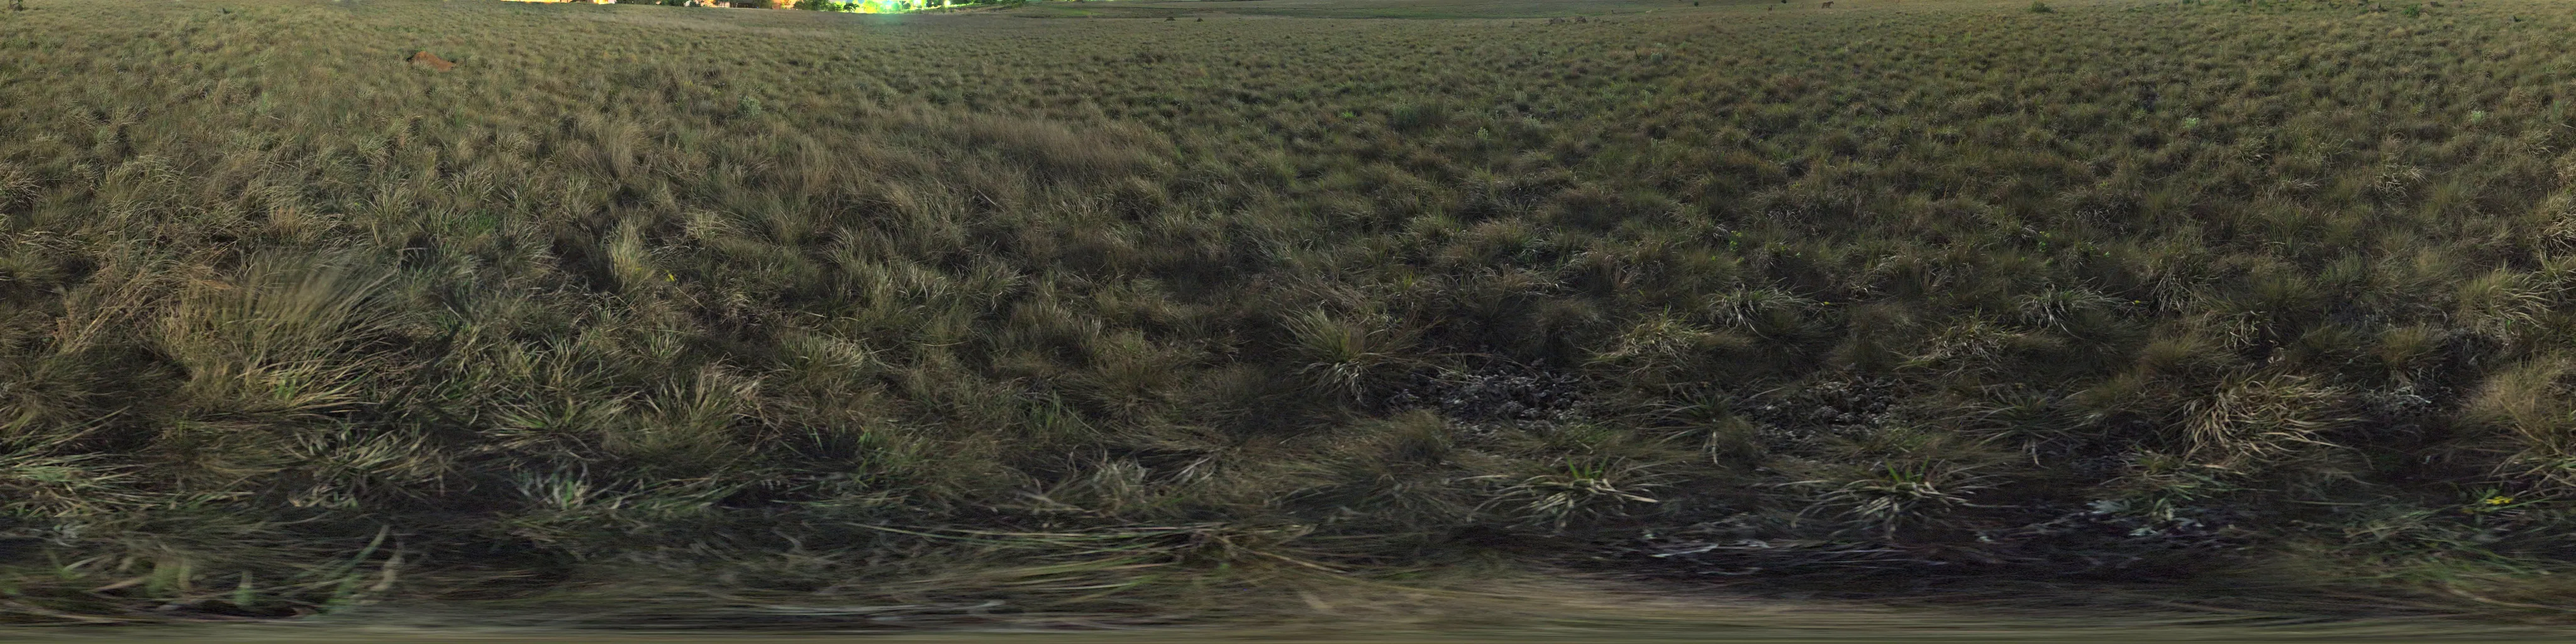
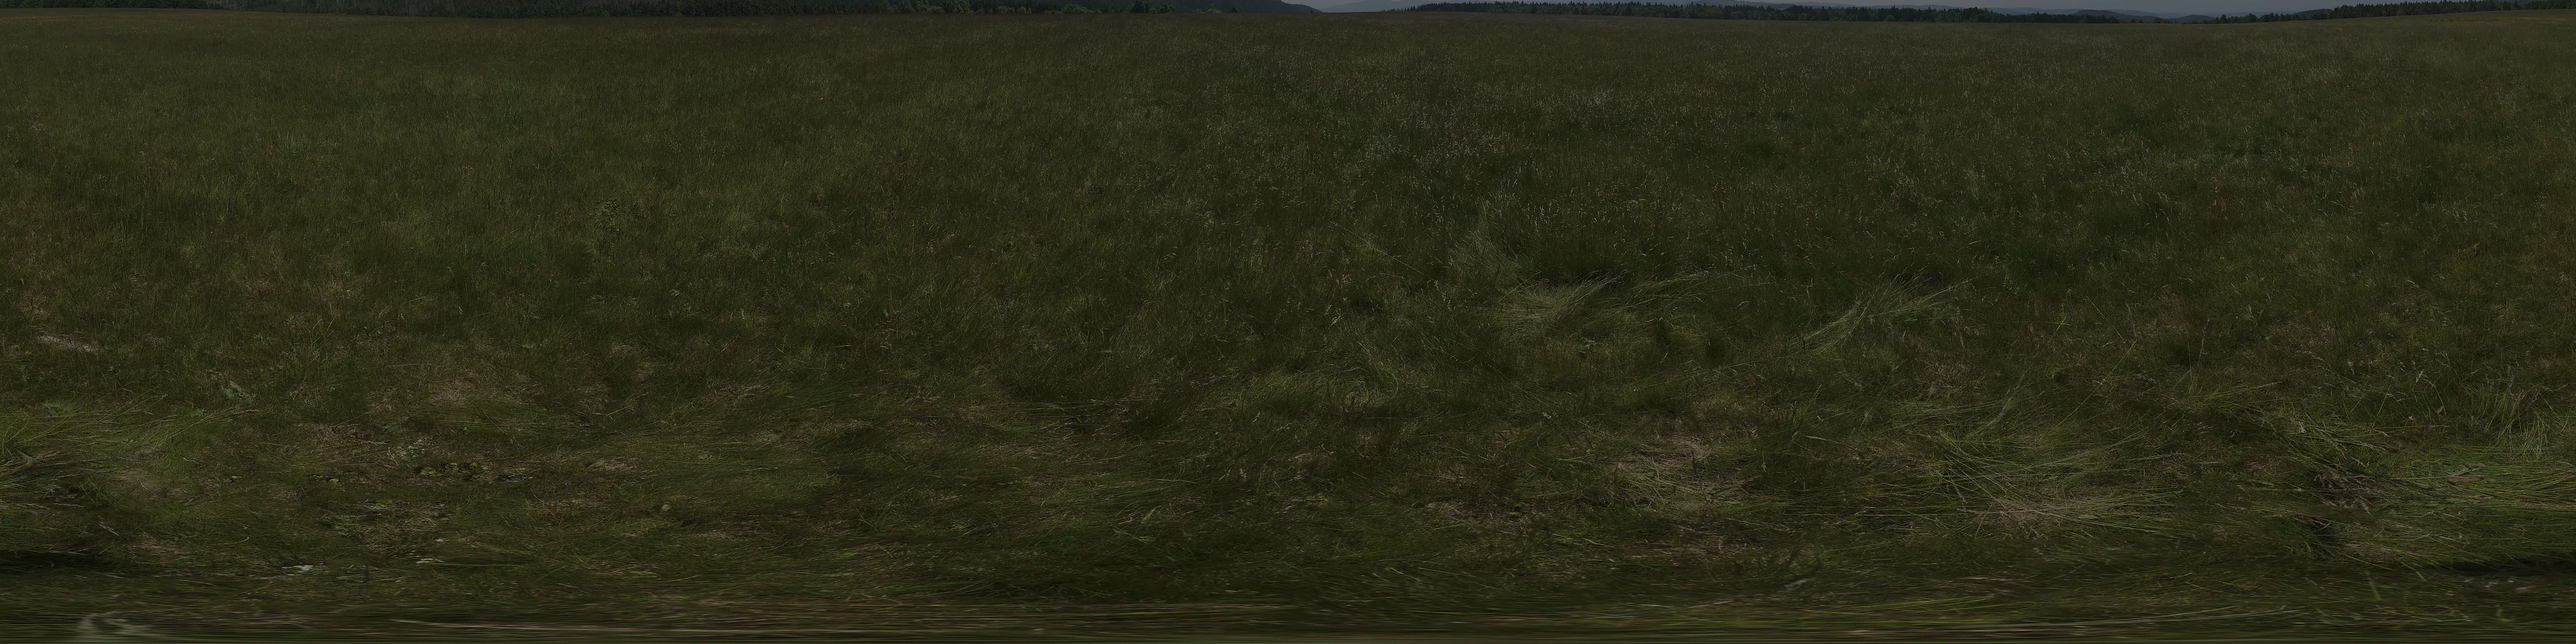
The open skies by day and at night stand over an open field with nothing modern in view

diff --git a/THIRD-PARTY-NOTICES.md b/THIRD-PARTY-NOTICES.md
@@ -16,7 +16,7 @@ file beside the executable.
 | Steamworks SDK libraries (`src/App/native/`) | the Workshop, in Steam builds only | © Valve Corporation | Steamworks SDK Access Agreement |
 | 1889 USGS topographic map, Fredericksburg sheet | the app icon (`tools/icon-map.jpg`) | U.S. Geological Survey | Public domain |
 | [Kenney](https://kenney.nl) Casino Audio and Impact Sounds | the table's sounds (`src/App/sounds/`, cut and layered from them) | Kenney Vleugels | CC0 1.0 (public domain) |
-| [Poly Haven](https://polyhaven.com) HDRIs: Combination Room, Old Hall (Sergej Majboroda); Georgentor, Mutianyu, Aristea Wreck, Kloppenheim 05, Kloofendal 48d Partly Cloudy, Kloppenheim 02, Rogland Clear Night (Greg Zaal); Chinese Garden, Lilienstein (Andreas Mischok); Horn-koppe Spring (Grzegorz Wronkowski); Dry Orchard Meadow (Alexander Scholten); Kloofendal 48d Partly Cloudy (Pure Sky), Kloppenheim 02 (Pure Sky) (Greg Zaal, Jarod Guest); Belfast Sunset and its Pure Sky (Greg Zaal, Dimitrios Savva, Jarod Guest) | the backdrops around the table (`src/App/backdrops/`: their tonemapped pictures at 8192×4096, and the skies tonemapped here from the 16K originals, upper half, over the ground of the full pictures; the sundown warmed, all re-encoded as WebP) | their photographers | CC0 1.0 (public domain) |
+| [Poly Haven](https://polyhaven.com) HDRIs: Combination Room, Old Hall (Sergej Majboroda); Georgentor, Mutianyu, Aristea Wreck, Kloppenheim 05, Kloofendal 48d Partly Cloudy, Kloppenheim 02, Rogland Clear Night (Greg Zaal); Chinese Garden, Lilienstein (Andreas Mischok); Horn-koppe Spring (Grzegorz Wronkowski); Dry Orchard Meadow (Alexander Scholten); Kloofendal 48d Partly Cloudy (Pure Sky), Kloppenheim 02 (Pure Sky) (Greg Zaal, Jarod Guest); Belfast Sunset and its Pure Sky (Greg Zaal, Dimitrios Savva, Jarod Guest) | the backdrops around the table (`src/App/backdrops/`: their tonemapped pictures at 8192×4096, and the skies tonemapped here from the 16K originals, upper half, over the ground of the full sundown picture or of Horn-koppe Spring; the sundown warmed, all re-encoded as WebP) | their photographers | CC0 1.0 (public domain) |
 | [ambientCG](https://ambientcg.com) HDRIs: Day Sky HDRI 022 A, Night Sky HDRI 002 | the island beach (brightened) and the starry night backdrops (`src/App/backdrops/`) | Lennart Demes | CC0 1.0 (public domain) |
 
 Godot carries third-party components of its own (FreeType, ENet, mbedTLS and others); they are listed in
